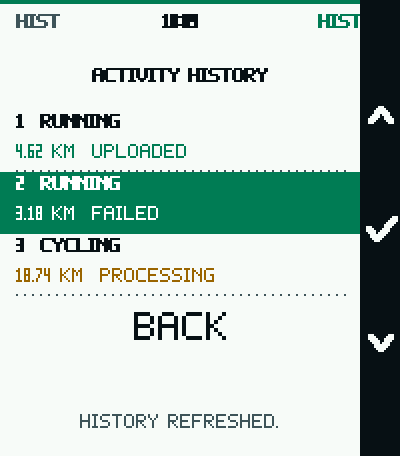
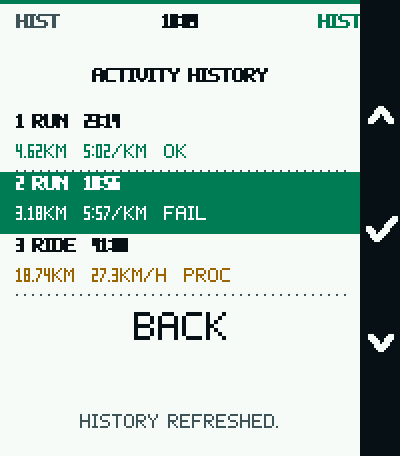
Release 0.4.2 history stats

diff --git a/tools/render_screenshots.js b/tools/render_screenshots.js
@@ -88,18 +88,18 @@ var screens = [
     message: 'History refreshed.',
     items: [
       {
-        title: '1  RUNNING',
-        detail: '4.62 km  UPLOADED',
+        title: '1 RUN  23:14',
+        detail: '4.62km  5:02/km  OK',
         statusColor: THEME.accent
       },
       {
-        title: '2  RUNNING',
-        detail: '3.18 km  FAILED',
+        title: '2 RUN  18:56',
+        detail: '3.18km  5:57/km  FAIL',
         statusColor: THEME.bad
       },
       {
-        title: '3  CYCLING',
-        detail: '18.74 km  PROCESSING',
+        title: '3 RIDE  41:08',
+        detail: '18.74km  27.3km/h  PROC',
         statusColor: THEME.warning
       }
     ]
@@ -111,6 +111,8 @@ var screens = [
     index: '2/3',
     distance: '3.18 km',
     elapsed: '18:56',
+    movementLabel: 'PACE',
+    movement: '5:57/km',
     status: 'FAILED',
     statusColor: THEME.bad,
     message: 'HTTP 403 - Forbidden'
@@ -1008,19 +1010,20 @@ function renderHistoryDetail(screen) {
       esc(screen.activity + ' ' + screen.index) + '</text>',
     '<text x="8" y="70" class="status" fill="' + THEME.onAccent + '">' +
       esc(screen.distance) + '</text>',
-    metricRow(76, 38, 'TIME', screen.elapsed),
-    dottedSeparator(114, THEME.muted),
-    '<text x="8" y="136" class="status" fill="' + THEME.muted +
+    metricRow(76, 29, 'TIME', screen.elapsed),
+    metricRow(105, 29, 'DIST', screen.distance),
+    metricRow(134, 29, screen.movementLabel, screen.movement),
+    dottedSeparator(163, THEME.muted),
+    '<text x="8" y="185" class="status" fill="' + THEME.muted +
       '">STRAVA</text>',
-    '<text x="' + (RIGHT - 8) + '" y="139" class="menu" fill="' +
+    '<text x="' + (RIGHT - 8) + '" y="188" class="menu" fill="' +
       screen.statusColor + '" text-anchor="end">' + esc(screen.status) +
       '</text>',
-    '<text x="8" y="164" class="status" fill="' + THEME.text +
-      '">Export TCX</text>',
-    '<text x="8" y="184" class="status" fill="' + THEME.text +
-      '">Retry Strava</text>',
+    '<text x="' + Math.round(RIGHT / 2) + '" y="205" class="footer" ' +
+      'fill="' + THEME.text +
+      '" text-anchor="middle">UP TCX  SEL STRAVA</text>',
     '<text x="' + Math.round(RIGHT / 2) +
-      '" y="214" class="footer" text-anchor="middle">' +
+      '" y="224" class="footer" text-anchor="middle">' +
       esc(screen.message) + '</text>',
     actionRail('file', 'refresh', 'close')
   ].join('\n'));
@@ -1335,14 +1338,16 @@ function pixelHistoryDetail(canvas, screen) {
   pixelTextFit(canvas, screen.activity + ' ' + screen.index, 8, 37,
                RIGHT - 16, 2, THEME.onAccent, 'left', true);
   canvas.text(screen.distance, 8, 58, 1, THEME.onAccent, 'left', true);
-  pixelMetricRow(canvas, 76, 38, 'TIME', screen.elapsed);
-  pixelDottedSeparator(canvas, 114, THEME.muted);
-  canvas.text('STRAVA', 8, 126, 1, THEME.muted, 'left', true);
-  pixelTextFit(canvas, screen.status, RIGHT - 8, 123, RIGHT - 72, 2,
+  pixelMetricRow(canvas, 76, 29, 'TIME', screen.elapsed);
+  pixelMetricRow(canvas, 105, 29, 'DIST', screen.distance);
+  pixelMetricRow(canvas, 134, 29, screen.movementLabel, screen.movement);
+  pixelDottedSeparator(canvas, 163, THEME.muted);
+  canvas.text('STRAVA', 8, 175, 1, THEME.muted, 'left', true);
+  pixelTextFit(canvas, screen.status, RIGHT - 8, 172, RIGHT - 72, 2,
                screen.statusColor, 'right', true);
-  canvas.text('Export TCX', 8, 156, 1, THEME.text, 'left', true);
-  canvas.text('Retry Strava', 8, 176, 1, THEME.text, 'left', true);
-  canvas.text(screen.message, Math.round(RIGHT / 2), 207, 1, THEME.muted,
+  canvas.text('UP TCX  SEL STRAVA', Math.round(RIGHT / 2), 197, 1,
+              THEME.text, 'center', false);
+  canvas.text(screen.message, Math.round(RIGHT / 2), 215, 1, THEME.muted,
               'center', false);
   pixelActionRail(canvas, 'file', 'refresh', 'close');
 }

diff --git a/src/c/watch_ui.c b/src/c/watch_ui.c
@@ -1110,12 +1110,76 @@ static void format_history_distance(int32_t meters, char *buffer,
   }
 }
 
+static void format_history_compact_distance(int32_t meters, char *buffer,
+                                            size_t buffer_size) {
+  if (meters >= 1000) {
+    snprintf(buffer, buffer_size, "%ld.%02ldkm",
+             (long)(meters / 1000), (long)((meters % 1000) / 10));
+  } else {
+    snprintf(buffer, buffer_size, "%ldm", (long)meters);
+  }
+}
+
+static const char *history_status_short_label(HistoryStravaStatus status) {
+  switch (status) {
+    case HistoryStravaNotUploaded:
+      return "NEW";
+    case HistoryStravaUploading:
+      return "UP";
+    case HistoryStravaProcessing:
+      return "PROC";
+    case HistoryStravaUploaded:
+      return "OK";
+    case HistoryStravaFailed:
+      return "FAIL";
+    case HistoryStravaSkipped:
+      return "SKIP";
+    case HistoryStravaUnknown:
+    default:
+      return "--";
+  }
+}
+
+static void format_history_movement(ActivityType type, int32_t distance_m,
+                                    int32_t moving_s, char *value,
+                                    size_t value_size, char *unit,
+                                    size_t unit_size) {
+  if (distance_m <= 0 || moving_s <= 0) {
+    snprintf(value, value_size, "--");
+    snprintf(unit, unit_size, type == ActivityTypeCycling ? "km/h" : "/km");
+    return;
+  }
+
+  if (type == ActivityTypeCycling) {
+    int32_t centi_mps = distance_m * 100 / moving_s;
+    format_speed_parts(centi_mps, value, value_size, unit, unit_size);
+  } else {
+    int32_t pace_s_per_km = moving_s * 1000 / distance_m;
+    format_pace_parts(pace_s_per_km, value, value_size, unit, unit_size);
+  }
+}
+
+static void format_history_compact_movement(ActivityType type,
+                                            int32_t distance_m,
+                                            int32_t moving_s,
+                                            char *buffer,
+                                            size_t buffer_size) {
+  char value[16];
+  char unit[8];
+
+  format_history_movement(type, distance_m, moving_s, value, sizeof(value),
+                          unit, sizeof(unit));
+  snprintf(buffer, buffer_size, "%s%s", value, unit);
+}
+
 static void draw_history_list_row(GContext *ctx, GRect bounds, int row_index,
                                   int y, int height, bool selected) {
   int right = content_right(bounds);
   char title[32];
   char detail[48];
   char distance_text[16];
+  char elapsed_text[16];
+  char movement_text[24];
   HistoryItem *item = &g_pacelet.history_items[row_index];
   GColor title_color = selected ? color_on_accent() : color_text();
   GColor detail_color = selected ? color_on_accent() :
@@ -1128,13 +1192,18 @@ static void draw_history_list_row(GContext *ctx, GRect bounds, int row_index,
     draw_dotted_separator(ctx, right, y + height - 1, color_muted());
   }
 
-  format_history_distance(item->distance_m, distance_text,
-                          sizeof(distance_text));
-  snprintf(title, sizeof(title), "%ld  %s",
+  format_elapsed(item->moving_s, elapsed_text, sizeof(elapsed_text));
+  format_history_compact_distance(item->distance_m, distance_text,
+                                  sizeof(distance_text));
+  format_history_compact_movement(item->activity_type, item->distance_m,
+                                  item->moving_s, movement_text,
+                                  sizeof(movement_text));
+  snprintf(title, sizeof(title), "%ld %s  %s",
            (long)(row_index + 1),
-           pacelet_activity_label(item->activity_type));
-  snprintf(detail, sizeof(detail), "%s  %s", distance_text,
-           pacelet_history_status_label(item->strava_status));
+           pacelet_activity_short_label(item->activity_type),
+           elapsed_text);
+  snprintf(detail, sizeof(detail), "%s  %s  %s", distance_text,
+           movement_text, history_status_short_label(item->strava_status));
 
   graphics_context_set_text_color(ctx, title_color);
   graphics_draw_text(ctx, title, font_metric_label(),
@@ -1237,12 +1306,20 @@ static void draw_history_detail_screen(GContext *ctx, GRect bounds) {
   char title[32];
   char elapsed_text[16];
   char distance_text[16];
+  char movement_value[16];
+  char movement_unit[8];
+  const char *movement_label =
+      item->activity_type == ActivityTypeCycling ? "SPEED" : "PACE";
 
   draw_top_bar(ctx, bounds);
 
   format_elapsed(item->moving_s, elapsed_text, sizeof(elapsed_text));
   format_history_distance(item->distance_m, distance_text,
                           sizeof(distance_text));
+  format_history_movement(item->activity_type, item->distance_m,
+                          item->moving_s, movement_value,
+                          sizeof(movement_value), movement_unit,
+                          sizeof(movement_unit));
   snprintf(title, sizeof(title), "%s %ld/%ld",
            pacelet_activity_label(item->activity_type),
            (long)(index + 1), (long)g_pacelet.history_count);
@@ -1259,35 +1336,34 @@ static void draw_history_detail_screen(GContext *ctx, GRect bounds) {
                      GTextOverflowModeTrailingEllipsis,
                      GTextAlignmentLeft, NULL);
 
-  draw_metric_row(ctx, bounds, 76, 38, "TIME", elapsed_text, "");
+  draw_metric_row(ctx, bounds, 76, 29, "TIME", elapsed_text, "");
+  draw_metric_row(ctx, bounds, 105, 29, "DIST", distance_text, "");
+  draw_metric_row(ctx, bounds, 134, 29, movement_label, movement_value,
+                  movement_unit);
 
-  draw_dotted_separator(ctx, right, 114, color_muted());
+  draw_dotted_separator(ctx, right, 163, color_muted());
   graphics_context_set_text_color(ctx, color_muted());
   graphics_draw_text(ctx, "STRAVA", font_metric_label(),
-                     GRect(8, 122, 56, 18),
+                     GRect(8, 171, 56, 18),
                      GTextOverflowModeTrailingEllipsis,
                      GTextAlignmentLeft, NULL);
   graphics_context_set_text_color(ctx, history_status_color(
       item->strava_status));
   graphics_draw_text(ctx, pacelet_history_status_label(item->strava_status),
-                     font_menu(), GRect(66, 119, right - 72, 24),
+                     font_menu(), GRect(66, 168, right - 72, 24),
                      GTextOverflowModeTrailingEllipsis,
                      GTextAlignmentRight, NULL);
 
   graphics_context_set_text_color(ctx, color_text());
-  graphics_draw_text(ctx, "Export TCX", font_metric_label(),
-                     GRect(8, 151, right - 16, 18),
+  graphics_draw_text(ctx, "UP TCX  SEL STRAVA", font_label(),
+                     GRect(8, 193, right - 16, 18),
                      GTextOverflowModeTrailingEllipsis,
-                     GTextAlignmentLeft, NULL);
-  graphics_draw_text(ctx, "Retry Strava", font_metric_label(),
-                     GRect(8, 171, right - 16, 18),
-                     GTextOverflowModeTrailingEllipsis,
-                     GTextAlignmentLeft, NULL);
+                     GTextAlignmentCenter, NULL);
 
   if (g_pacelet.history_message[0] != '\0') {
     graphics_context_set_text_color(ctx, color_muted());
     graphics_draw_text(ctx, g_pacelet.history_message, font_label(),
-                       GRect(8, 196, right - 16, 28),
+                       GRect(8, 211, right - 16, 16),
                        GTextOverflowModeTrailingEllipsis,
                        GTextAlignmentCenter, NULL);
   }

diff --git a/CHANGELOG.md b/CHANGELOG.md
@@ -7,6 +7,13 @@ and the project uses [Semantic Versioning](https://semver.org/spec/v2.0.0.html).
 
 ## [Unreleased]
 
+## [0.4.2] - 2026-07-04
+
+### Added
+
+- Show distance, moving time, and average pace or speed on Activity History
+  list and detail screens.
+
 ## [0.4.1] - 2026-07-04
 
 ### Fixed
